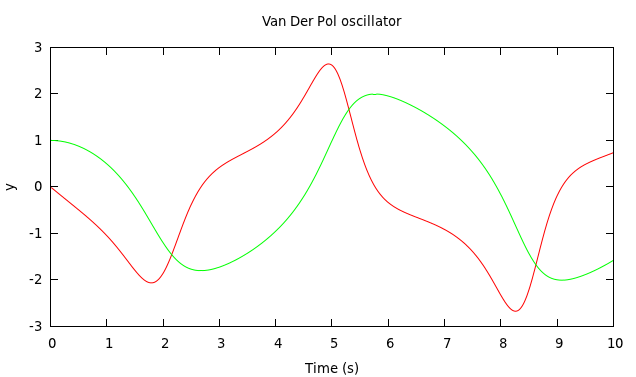
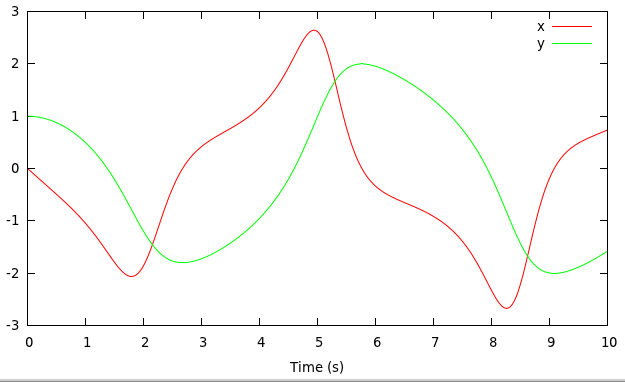
Readme updates

diff --git a/README.md b/README.md
@@ -5,9 +5,8 @@ Julia Sims
 Introduction
 ------------
 
-Sims is the beginnings of a Julia package to support
-equation-based modeling for simulations. Sims is like a lite
-version of Modelica.
+Sims is the beginnings of a Julia package to support equation-based
+modeling for simulations. Sims is like a lite version of Modelica.
 
 [Julia](http://julialang.org) is a fast, Matlab-like language that is
 well suited to modeling and simulations.
@@ -23,9 +22,10 @@ tool can then transform the equations and solve the differential
 algebraic equations. Non-causal models tend to match their physical
 counterparts in terms of their specification and implementation.
 
-Causal modeling is where all signals have an input and an output,
-and the flow of information is clear. Simulink is the
-highest-profile example.
+Causal modeling is where all signals have an input and an output, and
+the flow of information is clear. Simulink is the highest-profile
+example. The problem with causal modeling is that it is difficult to
+build up models of components.
 
 The highest profile noncausal modeling tools are in the
 [Modelica](www.modelica.org) family. The MathWorks company also has
@@ -78,8 +78,8 @@ and two unknowns:
 
 ``` .jl
 function Vanderpol()
-    y = Unknown(1.0)   # The 1.0 is the initial value.
-    x = Unknown()      # The initial value is zero if not given.
+    y = Unknown(1.0, "y")   # The 1.0 is the initial value. "y" is for plotting.
+    x = Unknown("x")        # The initial value is zero if not given.
     # The following gives the return value which is a list of equations.
     # Expressions with Unknowns are kept as expressions. Expressions of
     # regular variables are evaluated immediately.
@@ -93,9 +93,7 @@ end
 y = sim(Vanderpol(), 10.0) # Run the simulation to 10 seconds and return
                            # the result as an array.
 # plot the results
-plot(y[:,1], y[:,2], y[:,1], y[:,3],
-     "xlabel","Time (s)",
-     "title", "Van Der Pol oscillator")
+plot(y)
 ``` 
 
 Here are the results:
@@ -106,27 +104,26 @@ Here are the results:
 Electrical example
 ------------------
 
-This example shows
-definitions of several electrical components. Each is again a
-function that returns a list of equations. Equations are
-expressions (type MExpr) that includes other expressions and
-unknowns (type Unknown).
+This example shows definitions of several electrical components. Each
+is again a function that returns a list of equations. Equations are
+expressions (type MExpr) that includes other expressions and unknowns
+(type Unknown).
 
 Arguments to each function are model parameters. These are normally
-nodes specifying connectivity followed by parameters specifying
-model characteristics.
+nodes specifying connectivity followed by parameters specifying model
+characteristics.
 
 Models can contain models or other functions that return equations.
 The function Branch is a special function that returns an equation
 specifying relationships between nodes and flows. It also acts as an
-indicator to mark nodes. In the flattening/elaboration process, equations are
-created to sum flows (in this case electrical currents) to zero at
-all nodes. RefBranch is another special function for marking nodes
-and flow variables.
+indicator to mark nodes. In the flattening/elaboration process,
+equations are created to sum flows (in this case electrical currents)
+to zero at all nodes. RefBranch is another special function for
+marking nodes and flow variables.
 
-Nodes passed as parameters or created with ElectricalNode() are
-simply unknowns. For these electrical examples, a node is simply an
-unknown voltage.
+Nodes passed as parameters or created with ElectricalNode() are simply
+unknowns. For these electrical examples, a node is simply an unknown
+voltage.
  
     
 ``` .jl
@@ -158,20 +155,26 @@ models with various parameters.
    
 ``` .jl
 function Circuit()
-    n1 = ElectricalNode()
-    n2 = ElectricalNode()
+    n1 = ElectricalNode("Source voltage")   # The string indicates labeling for plots
+    n2 = ElectricalNode("Output voltage")
+    n3 = ElectricalNode()
     g = 0.0  # A ground has zero volts; it's not an unknown.
     {
      VSource(n1, g, 10.0, 60.0)
      Resistor(n1, n2, 10.0)
      Resistor(n2, g, 5.0)
-     Capacitor(n2, g, 5.0e-3)
+     SeriesProbe(n2, n3, "Capacitor current")
+     Capacitor(n3, g, 5.0e-3)
      }
 end
 
 ckt = Circuit()
-ckt_y = sim(ckt, 0.1)  
+ckt_y = sim(ckt, 0.1)
+plot(ckt_y)
 ```
+Here are the results:
+
+![plot results](https://github.com/tshort-/Sims/raw/master/circuit.png "Circuit results")
 
 For further examples, see here:
     
